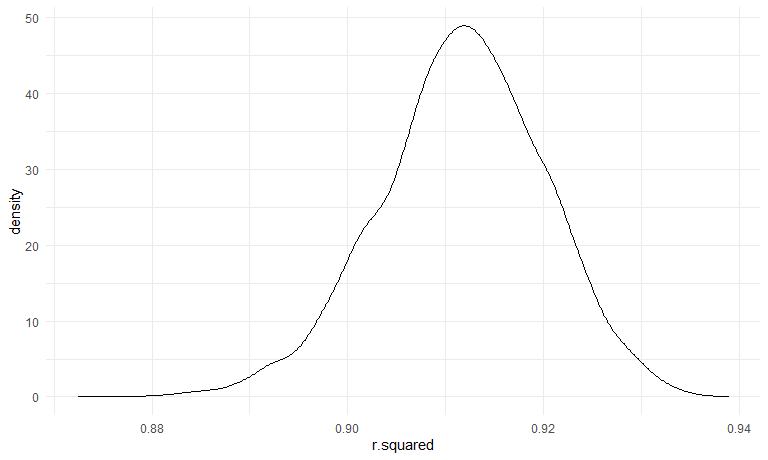
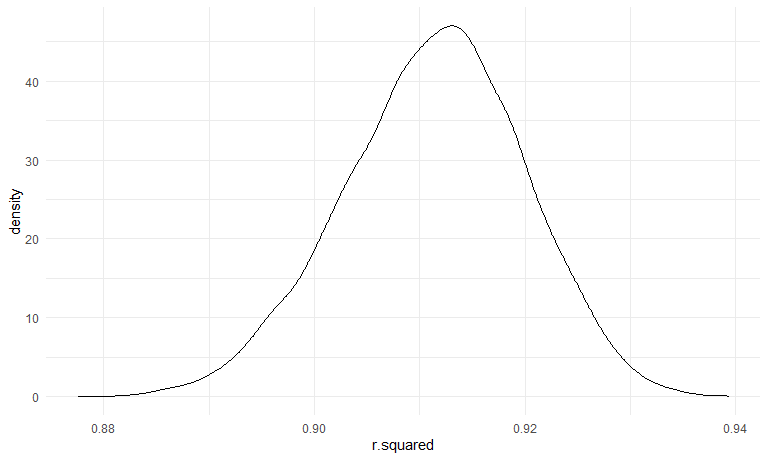
change my model and make some modifications

diff --git a/p8105_hw6_jt3386.md b/p8105_hw6_jt3386.md
@@ -103,7 +103,7 @@ beta_df %>%
 
 | lower | upper |
 |------:|------:|
-| 1.965 | 2.057 |
+| 1.964 |  2.06 |
 
 95% CI for log_b0b1
 
@@ -320,85 +320,169 @@ bw_df
     ## #   mrace <fct>, parity <dbl>, pnumlbw <dbl>, pnumsga <dbl>, ppbmi <dbl>,
     ## #   ppwt <dbl>, smoken <dbl>, wtgain <dbl>
 
-After skimming the data, I propose that `babysex`, `bhead`, `blength`,
-`gaweeks`, `malform`, `smoken`, `wtgain` would contribute most to the
-`bwt`. I think a baby’s characteristics would affect his weight, so I
-put in all variables about babies. Then I think gestational age, mother
-smoking, and mother’s gained weight are also important. Finally, I think
-malformation could influence a baby’s weight. So it is my first model.
+My strategy is to fit the full model first, and then use backward method
+to select the variables.
 
 ``` r
-fit_model = lm(bwt ~ babysex + bhead + blength + gaweeks + malform + smoken + wtgain, data = bw_df)
-
-summary(fit_model)
+full_model = lm(bwt ~ ., data = bw_df)
+final_model = step(full_model, direction = "backward")
 ```
 
+    ## Start:  AIC=48717.83
+    ## bwt ~ babysex + bhead + blength + delwt + fincome + frace + gaweeks + 
+    ##     malform + menarche + mheight + momage + mrace + parity + 
+    ##     pnumlbw + pnumsga + ppbmi + ppwt + smoken + wtgain
     ## 
-    ## Call:
-    ## lm(formula = bwt ~ babysex + bhead + blength + gaweeks + malform + 
-    ##     smoken + wtgain, data = bw_df)
     ## 
-    ## Residuals:
-    ##     Min      1Q  Median      3Q     Max 
-    ## -1109.2  -189.9    -9.3   173.4  2586.4 
+    ## Step:  AIC=48717.83
+    ## bwt ~ babysex + bhead + blength + delwt + fincome + frace + gaweeks + 
+    ##     malform + menarche + mheight + momage + mrace + parity + 
+    ##     pnumlbw + pnumsga + ppbmi + ppwt + smoken
     ## 
-    ## Coefficients:
-    ##                  Estimate Std. Error t value Pr(>|t|)    
-    ## (Intercept)    -6134.1262    98.0683 -62.550  < 2e-16 ***
-    ## babysexFemale     32.7439     8.7661   3.735 0.000190 ***
-    ## bhead            138.4352     3.5421  39.083  < 2e-16 ***
-    ## blength           79.8464     2.0725  38.527  < 2e-16 ***
-    ## gaweeks           13.4978     1.5064   8.960  < 2e-16 ***
-    ## malformPresent    30.3884    73.2929   0.415 0.678444    
-    ## smoken            -1.9638     0.5838  -3.364 0.000776 ***
-    ## wtgain             3.5145     0.4027   8.727  < 2e-16 ***
-    ## ---
-    ## Signif. codes:  0 '***' 0.001 '**' 0.01 '*' 0.05 '.' 0.1 ' ' 1
     ## 
-    ## Residual standard error: 283 on 4334 degrees of freedom
-    ## Multiple R-squared:  0.6951, Adjusted R-squared:  0.6947 
-    ## F-statistic:  1412 on 7 and 4334 DF,  p-value: < 2.2e-16
-
-We can see that `malform` variable is not that statistically
-significant, so we would like to remove it.
+    ## Step:  AIC=48717.83
+    ## bwt ~ babysex + bhead + blength + delwt + fincome + frace + gaweeks + 
+    ##     malform + menarche + mheight + momage + mrace + parity + 
+    ##     pnumlbw + ppbmi + ppwt + smoken
+    ## 
+    ## 
+    ## Step:  AIC=48717.83
+    ## bwt ~ babysex + bhead + blength + delwt + fincome + frace + gaweeks + 
+    ##     malform + menarche + mheight + momage + mrace + parity + 
+    ##     ppbmi + ppwt + smoken
+    ## 
+    ##            Df Sum of Sq       RSS   AIC
+    ## - frace     4    124365 320848704 48712
+    ## - malform   1      1419 320725757 48716
+    ## - ppbmi     1      6346 320730684 48716
+    ## - momage    1     28661 320752999 48716
+    ## - mheight   1     66886 320791224 48717
+    ## - menarche  1    111679 320836018 48717
+    ## - ppwt      1    131132 320855470 48718
+    ## <none>                  320724338 48718
+    ## - fincome   1    193454 320917792 48718
+    ## - parity    1    413584 321137922 48721
+    ## - mrace     3    868321 321592659 48724
+    ## - babysex   1    853796 321578134 48727
+    ## - gaweeks   1   4611823 325336161 48778
+    ## - smoken    1   5076393 325800732 48784
+    ## - delwt     1   8008891 328733230 48823
+    ## - blength   1 102050296 422774634 49915
+    ## - bhead     1 106535716 427260054 49961
+    ## 
+    ## Step:  AIC=48711.51
+    ## bwt ~ babysex + bhead + blength + delwt + fincome + gaweeks + 
+    ##     malform + menarche + mheight + momage + mrace + parity + 
+    ##     ppbmi + ppwt + smoken
+    ## 
+    ##            Df Sum of Sq       RSS   AIC
+    ## - malform   1      1447 320850151 48710
+    ## - ppbmi     1      6975 320855679 48710
+    ## - momage    1     28379 320877083 48710
+    ## - mheight   1     69502 320918206 48710
+    ## - menarche  1    115708 320964411 48711
+    ## - ppwt      1    133961 320982665 48711
+    ## <none>                  320848704 48712
+    ## - fincome   1    194405 321043108 48712
+    ## - parity    1    414687 321263390 48715
+    ## - babysex   1    852133 321700837 48721
+    ## - gaweeks   1   4625208 325473911 48772
+    ## - smoken    1   5036389 325885093 48777
+    ## - delwt     1   8013099 328861802 48817
+    ## - mrace     3  13540415 334389119 48885
+    ## - blength   1 101995688 422844392 49908
+    ## - bhead     1 106662962 427511666 49956
+    ## 
+    ## Step:  AIC=48709.53
+    ## bwt ~ babysex + bhead + blength + delwt + fincome + gaweeks + 
+    ##     menarche + mheight + momage + mrace + parity + ppbmi + ppwt + 
+    ##     smoken
+    ## 
+    ##            Df Sum of Sq       RSS   AIC
+    ## - ppbmi     1      6928 320857079 48708
+    ## - momage    1     28660 320878811 48708
+    ## - mheight   1     69320 320919470 48708
+    ## - menarche  1    116027 320966177 48709
+    ## - ppwt      1    133894 320984044 48709
+    ## <none>                  320850151 48710
+    ## - fincome   1    193784 321043934 48710
+    ## - parity    1    414482 321264633 48713
+    ## - babysex   1    851279 321701430 48719
+    ## - gaweeks   1   4624003 325474154 48770
+    ## - smoken    1   5035195 325885346 48775
+    ## - delwt     1   8029079 328879230 48815
+    ## - mrace     3  13553320 334403471 48883
+    ## - blength   1 102009225 422859375 49906
+    ## - bhead     1 106675331 427525481 49954
+    ## 
+    ## Step:  AIC=48707.63
+    ## bwt ~ babysex + bhead + blength + delwt + fincome + gaweeks + 
+    ##     menarche + mheight + momage + mrace + parity + ppwt + smoken
+    ## 
+    ##            Df Sum of Sq       RSS   AIC
+    ## - momage    1     29211 320886290 48706
+    ## - menarche  1    117635 320974714 48707
+    ## <none>                  320857079 48708
+    ## - fincome   1    195199 321052278 48708
+    ## - parity    1    412984 321270064 48711
+    ## - babysex   1    850020 321707099 48717
+    ## - mheight   1   1078673 321935752 48720
+    ## - ppwt      1   2934023 323791103 48745
+    ## - gaweeks   1   4621504 325478583 48768
+    ## - smoken    1   5039368 325896447 48773
+    ## - delwt     1   8024939 328882018 48813
+    ## - mrace     3  13551444 334408523 48881
+    ## - blength   1 102018559 422875638 49904
+    ## - bhead     1 106821342 427678421 49953
+    ## 
+    ## Step:  AIC=48706.02
+    ## bwt ~ babysex + bhead + blength + delwt + fincome + gaweeks + 
+    ##     menarche + mheight + mrace + parity + ppwt + smoken
+    ## 
+    ##            Df Sum of Sq       RSS   AIC
+    ## - menarche  1    100121 320986412 48705
+    ## <none>                  320886290 48706
+    ## - fincome   1    240800 321127090 48707
+    ## - parity    1    431433 321317724 48710
+    ## - babysex   1    841278 321727568 48715
+    ## - mheight   1   1076739 321963029 48719
+    ## - ppwt      1   2913653 323799943 48743
+    ## - gaweeks   1   4676469 325562760 48767
+    ## - smoken    1   5045104 325931394 48772
+    ## - delwt     1   8000672 328886962 48811
+    ## - mrace     3  14667730 335554021 48894
+    ## - blength   1 101990556 422876847 49902
+    ## - bhead     1 106864308 427750598 49952
+    ## 
+    ## Step:  AIC=48705.38
+    ## bwt ~ babysex + bhead + blength + delwt + fincome + gaweeks + 
+    ##     mheight + mrace + parity + ppwt + smoken
+    ## 
+    ##           Df Sum of Sq       RSS   AIC
+    ## <none>                 320986412 48705
+    ## - fincome  1    245637 321232048 48707
+    ## - parity   1    422770 321409181 48709
+    ## - babysex  1    846134 321832545 48715
+    ## - mheight  1   1012240 321998651 48717
+    ## - ppwt     1   2907049 323893461 48743
+    ## - gaweeks  1   4662501 325648912 48766
+    ## - smoken   1   5073849 326060260 48771
+    ## - delwt    1   8137459 329123871 48812
+    ## - mrace    3  14683609 335670021 48894
+    ## - blength  1 102191779 423178191 49903
+    ## - bhead    1 106779754 427766166 49950
 
 ``` r
-fit_model = lm(bwt ~ babysex + bhead + blength + gaweeks + smoken + wtgain, data = bw_df)
-
-summary(fit_model)
+final_model$call
 ```
 
-    ## 
-    ## Call:
-    ## lm(formula = bwt ~ babysex + bhead + blength + gaweeks + smoken + 
-    ##     wtgain, data = bw_df)
-    ## 
-    ## Residuals:
-    ##      Min       1Q   Median       3Q      Max 
-    ## -1109.32  -189.56    -9.54   173.30  2585.99 
-    ## 
-    ## Coefficients:
-    ##                 Estimate Std. Error t value Pr(>|t|)    
-    ## (Intercept)   -6133.7544    98.0549 -62.554  < 2e-16 ***
-    ## babysexFemale    32.6864     8.7641   3.730 0.000194 ***
-    ## bhead           138.4473     3.5416  39.092  < 2e-16 ***
-    ## blength          79.8340     2.0721  38.529  < 2e-16 ***
-    ## gaweeks          13.4932     1.5062   8.958  < 2e-16 ***
-    ## smoken           -1.9562     0.5835  -3.353 0.000808 ***
-    ## wtgain            3.5198     0.4025   8.745  < 2e-16 ***
-    ## ---
-    ## Signif. codes:  0 '***' 0.001 '**' 0.01 '*' 0.05 '.' 0.1 ' ' 1
-    ## 
-    ## Residual standard error: 283 on 4335 degrees of freedom
-    ## Multiple R-squared:  0.6951, Adjusted R-squared:  0.6947 
-    ## F-statistic:  1647 on 6 and 4335 DF,  p-value: < 2.2e-16
-
-Then it looks great. We plot residuals against fitted values.
+    ## lm(formula = bwt ~ babysex + bhead + blength + delwt + fincome + 
+    ##     gaweeks + mheight + mrace + parity + ppwt + smoken, data = bw_df)
 
 ``` r
 bw_df %>% 
-  add_residuals(fit_model) %>% 
-  add_predictions(fit_model) %>% 
+  add_residuals(final_model) %>% 
+  add_predictions(final_model) %>% 
   ggplot(aes(x = pred, y = resid)) +
   geom_point() +
   labs(
@@ -407,7 +491,7 @@ bw_df %>%
   )
 ```
 
-<img src="p8105_hw6_jt3386_files/figure-gfm/unnamed-chunk-16-1.png" width="90%" />
+<img src="p8105_hw6_jt3386_files/figure-gfm/unnamed-chunk-15-1.png" width="90%" />
 
 The residuals are around 0, and the fitted values are around 3000. There
 are several extreme points, but that does not matter.
@@ -427,7 +511,7 @@ cv_df =
   mutate(
     model_1  = map(.x = train, ~lm(bwt ~ blength + gaweeks, data = bw_df)),
     model_2  = map(.x = train, ~lm(bwt ~ bhead + blength + babysex + bhead*blength + blength*babysex + bhead*babysex + bhead*blength*babysex, data = bw_df)),
-    my_model  = map(.x = train, ~lm(bwt ~ babysex + bhead + blength + gaweeks + smoken + wtgain, data = bw_df))) %>% 
+    my_model  = map(.x = train, ~lm(bwt ~ babysex + bhead + blength + delwt + fincome + gaweeks + mheight + mrace + parity + ppwt + smoken, data = bw_df))) %>% 
   mutate(
     rmse_model_1 = map2_dbl(model_1, test, ~rmse(model = .x, data = .y)),
     rmse_model_2 = map2_dbl(model_2, test, ~rmse(model = .x, data = .y)),
@@ -449,7 +533,7 @@ cv_df %>%
   geom_violin()
 ```
 
-<img src="p8105_hw6_jt3386_files/figure-gfm/unnamed-chunk-18-1.png" width="90%" />
+<img src="p8105_hw6_jt3386_files/figure-gfm/unnamed-chunk-17-1.png" width="90%" />
 
-As we can see, my model is slightly better than model 2, and might be
-the best among the three models.
+As we can see, my model’s RMSE is the smallest, it’s better than model
+2, and might be the best among the three models.
